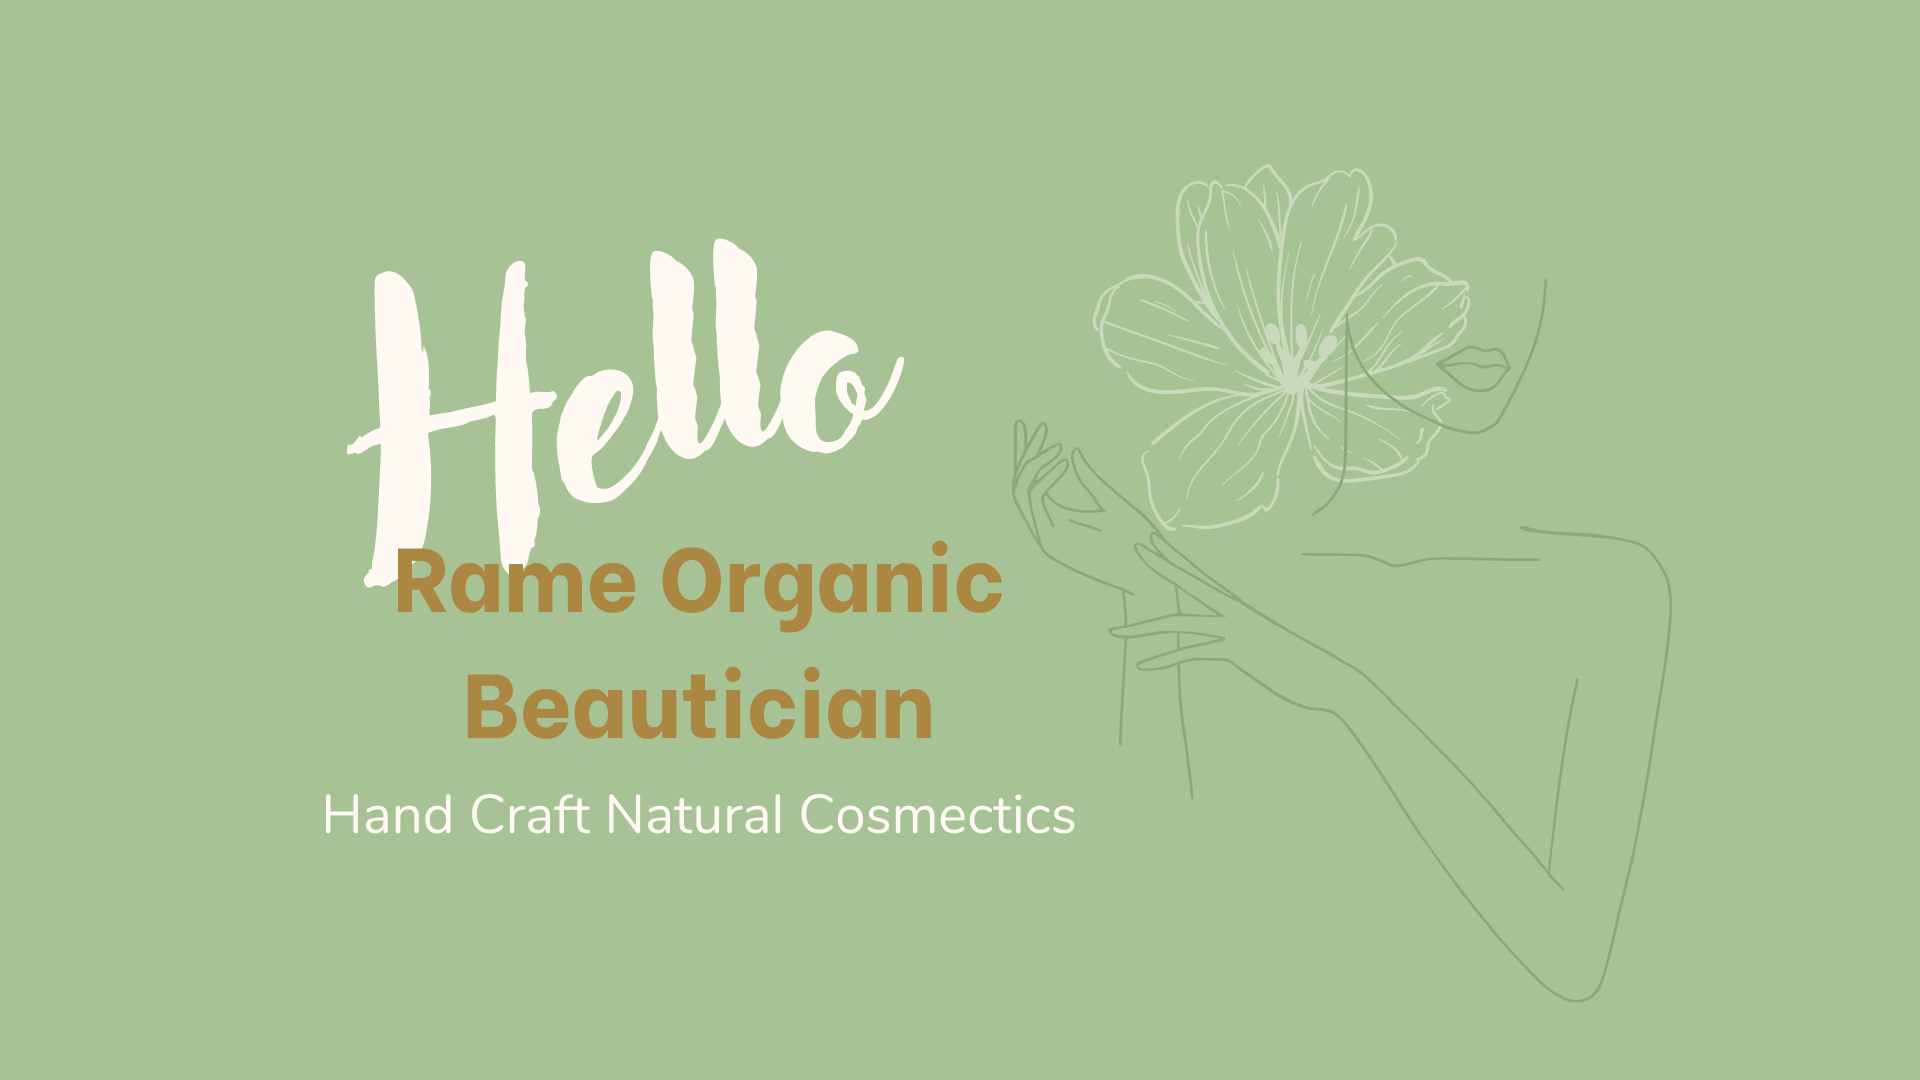
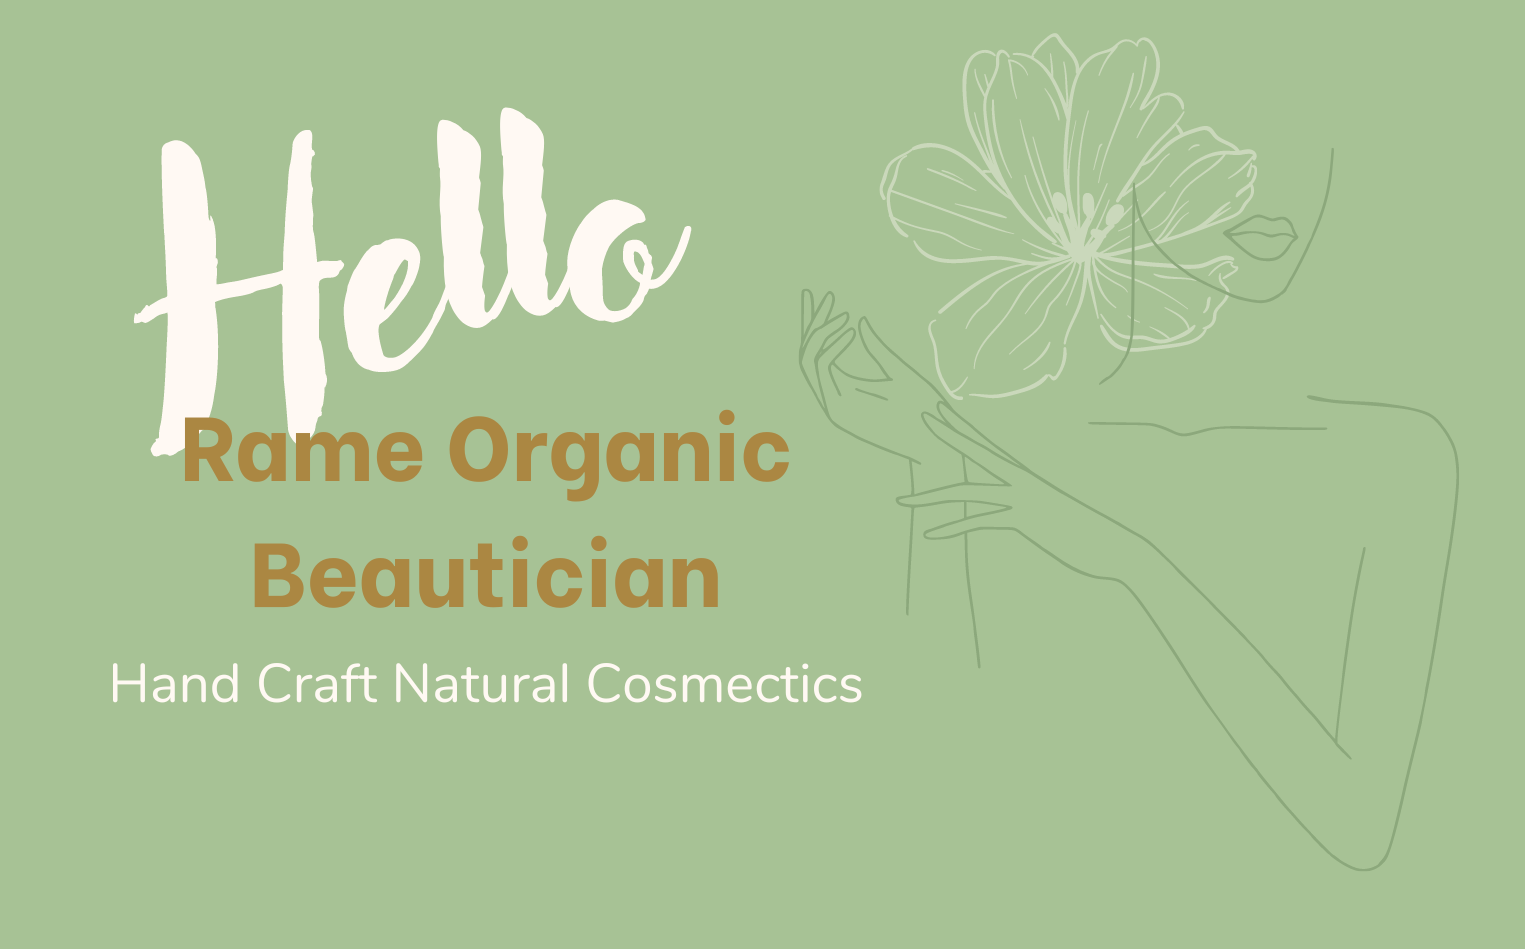
Proyecto Final

diff --git a/src/App.js b/src/App.js
@@ -9,16 +9,19 @@ import ItemDetailContainer from './components/ItemDetailContainer/ItemDetailCont
 import { BrowserRouter, Route, Routes } from "react-router-dom";
 import Cart from "./components/Cart/Cart.js";
 import CartProvider from './context/CartProvider';
+import Inicio from "./components/Present/Presentation";
 
 
 function App() {
-  return (
+  return ( 
+
     <CartProvider>
     <BrowserRouter>
     <div className="App">
-        <Navbar />
+       <Navbar />
       <Routes className="App-content">
-       <Route path='/' element= {<ItemListContainer/>} />
+      <Route path="/" element= {<Inicio/>} />
+       <Route path='/inicio' element= {<ItemListContainer/>} />
        <Route path='/category/:categoryName' element={<ItemListContainer/>}/>
        <Route path='/item/:id' element={<ItemDetailContainer/>}/>
        <Route path='/cart' element={<Cart/>}/>

diff --git a/src/components/Present/Presentation.js b/src/components/Present/Presentation.js
@@ -1,5 +1,6 @@
 import React from "react";
 import "./Presentation.css"
+import { Link } from "react-router-dom";
 
 const Inicio = () => {  
 
@@ -7,13 +8,9 @@ const Inicio = () => {
 
     return (
        <>
-         <div className="Img-inicio"> 
-         <img src="/images/Hello.png" alt="Hello" />
-         </div>
          <div className="Inicio">
-            <h1>Welcome to Rame Cosmetics</h1>
-         </div>
-         <div className="subtitulo-inicio">
+            <img src="/images/Hello.png" alt="Hello" />
+            <Link to= {"/inicio"} className = "boton" > View products </Link>
          </div>
        </>
     );

diff --git a/src/components/Present/Presentation.css b/src/components/Present/Presentation.css
@@ -1,0 +1,26 @@
+
+.Inicio {
+    position: relative;
+ 
+}
+
+.boton {
+    position: absolute;
+    bottom: 13%;
+    right: 50%;
+    color: #AB8742;
+    border-radius: 8px;
+    border: 1px solid #fff9f3;
+    font-family: 'Courier New', Courier, monospace;
+    font-weight: bolder;
+    font-size: 30px;
+    list-style: none;
+    text-decoration: none;
+    background-color: #fff9f3;
+
+}
+
+.Inicio img {
+    width: auto;
+    height: auto;
+}

diff --git a/src/components/Navbar/Navbar.js b/src/components/Navbar/Navbar.js
@@ -15,7 +15,7 @@ const Navbar = (props) => {
             <Link to={'/'}>
             <img className='logo' src='/images/Ramé.png' alt='logo rame' width='300' height='150'/> 
             </Link>
-            <a href="#lateral" className="header-open">
+            <a className="header-open">
                 <span className="fa-solid fa-bars"></span> 
             </a>
             <nav className="navba">

diff --git a/src/components/ItemCount/ItemCount.css b/src/components/ItemCount/ItemCount.css
@@ -7,6 +7,7 @@
     font-family: 'Courier New', Courier, monospace;
     font-size: 22px;
     list-style: none;
+    text-decoration: none;
 }
 
 .ItemCountP {
